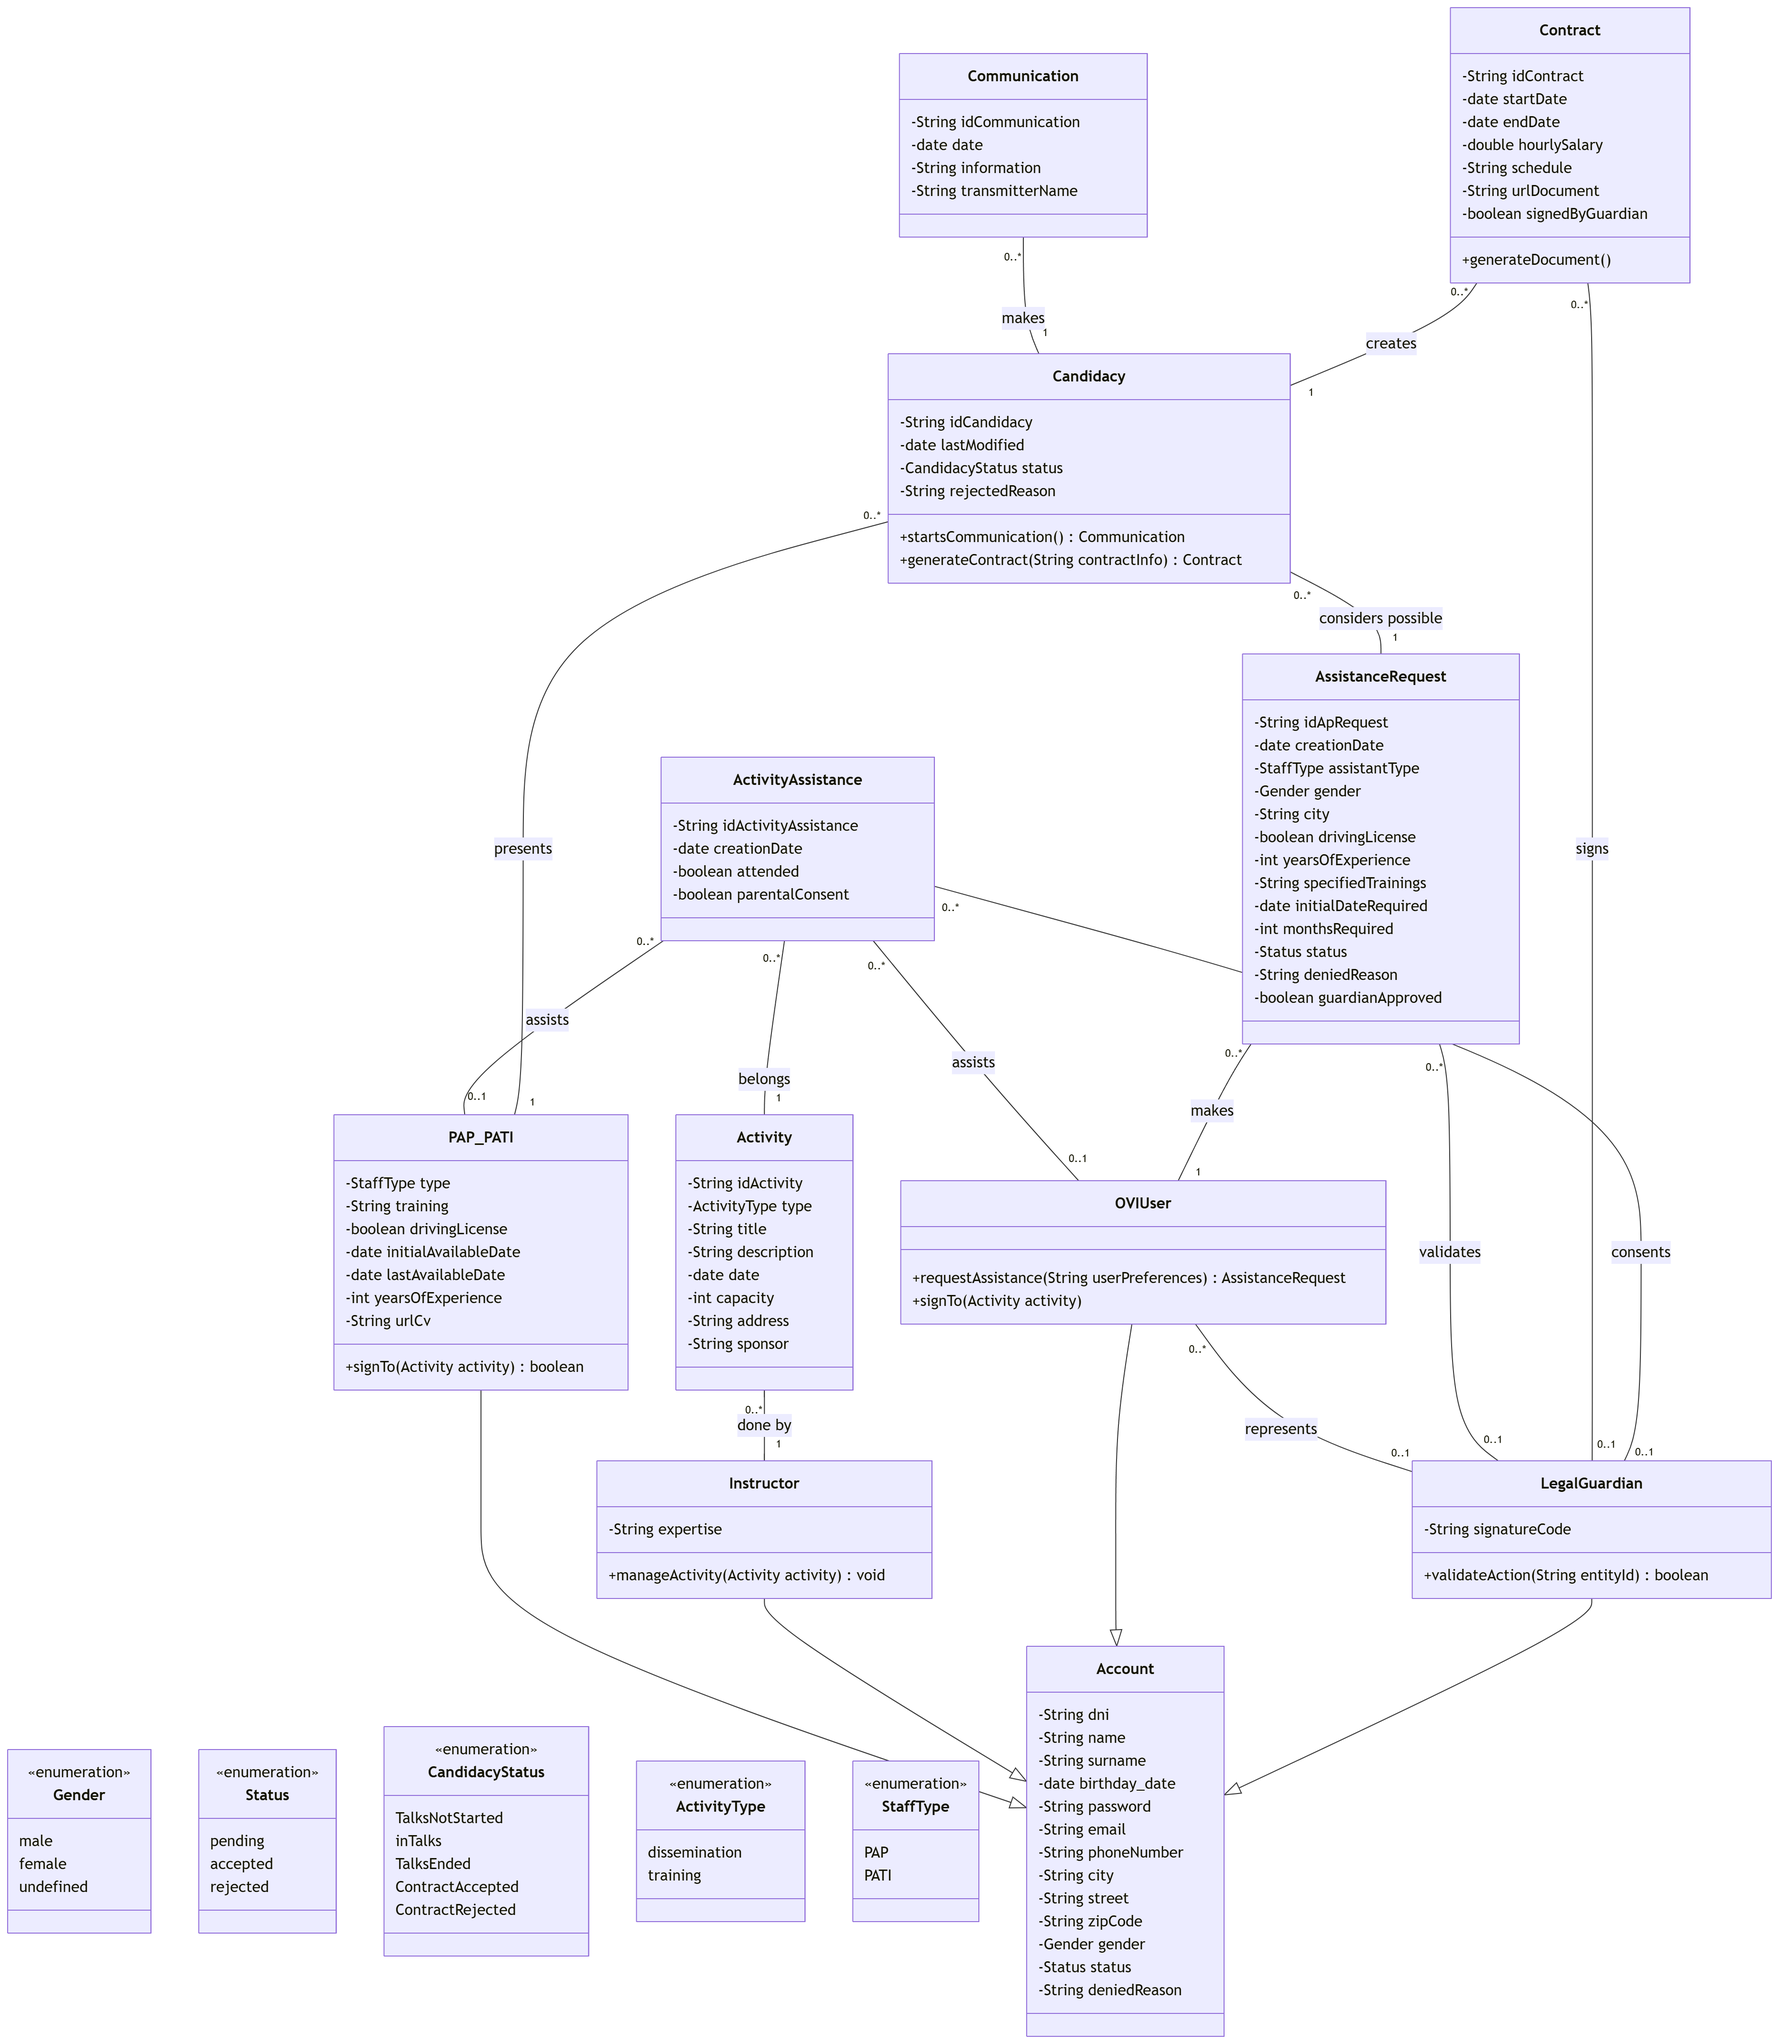
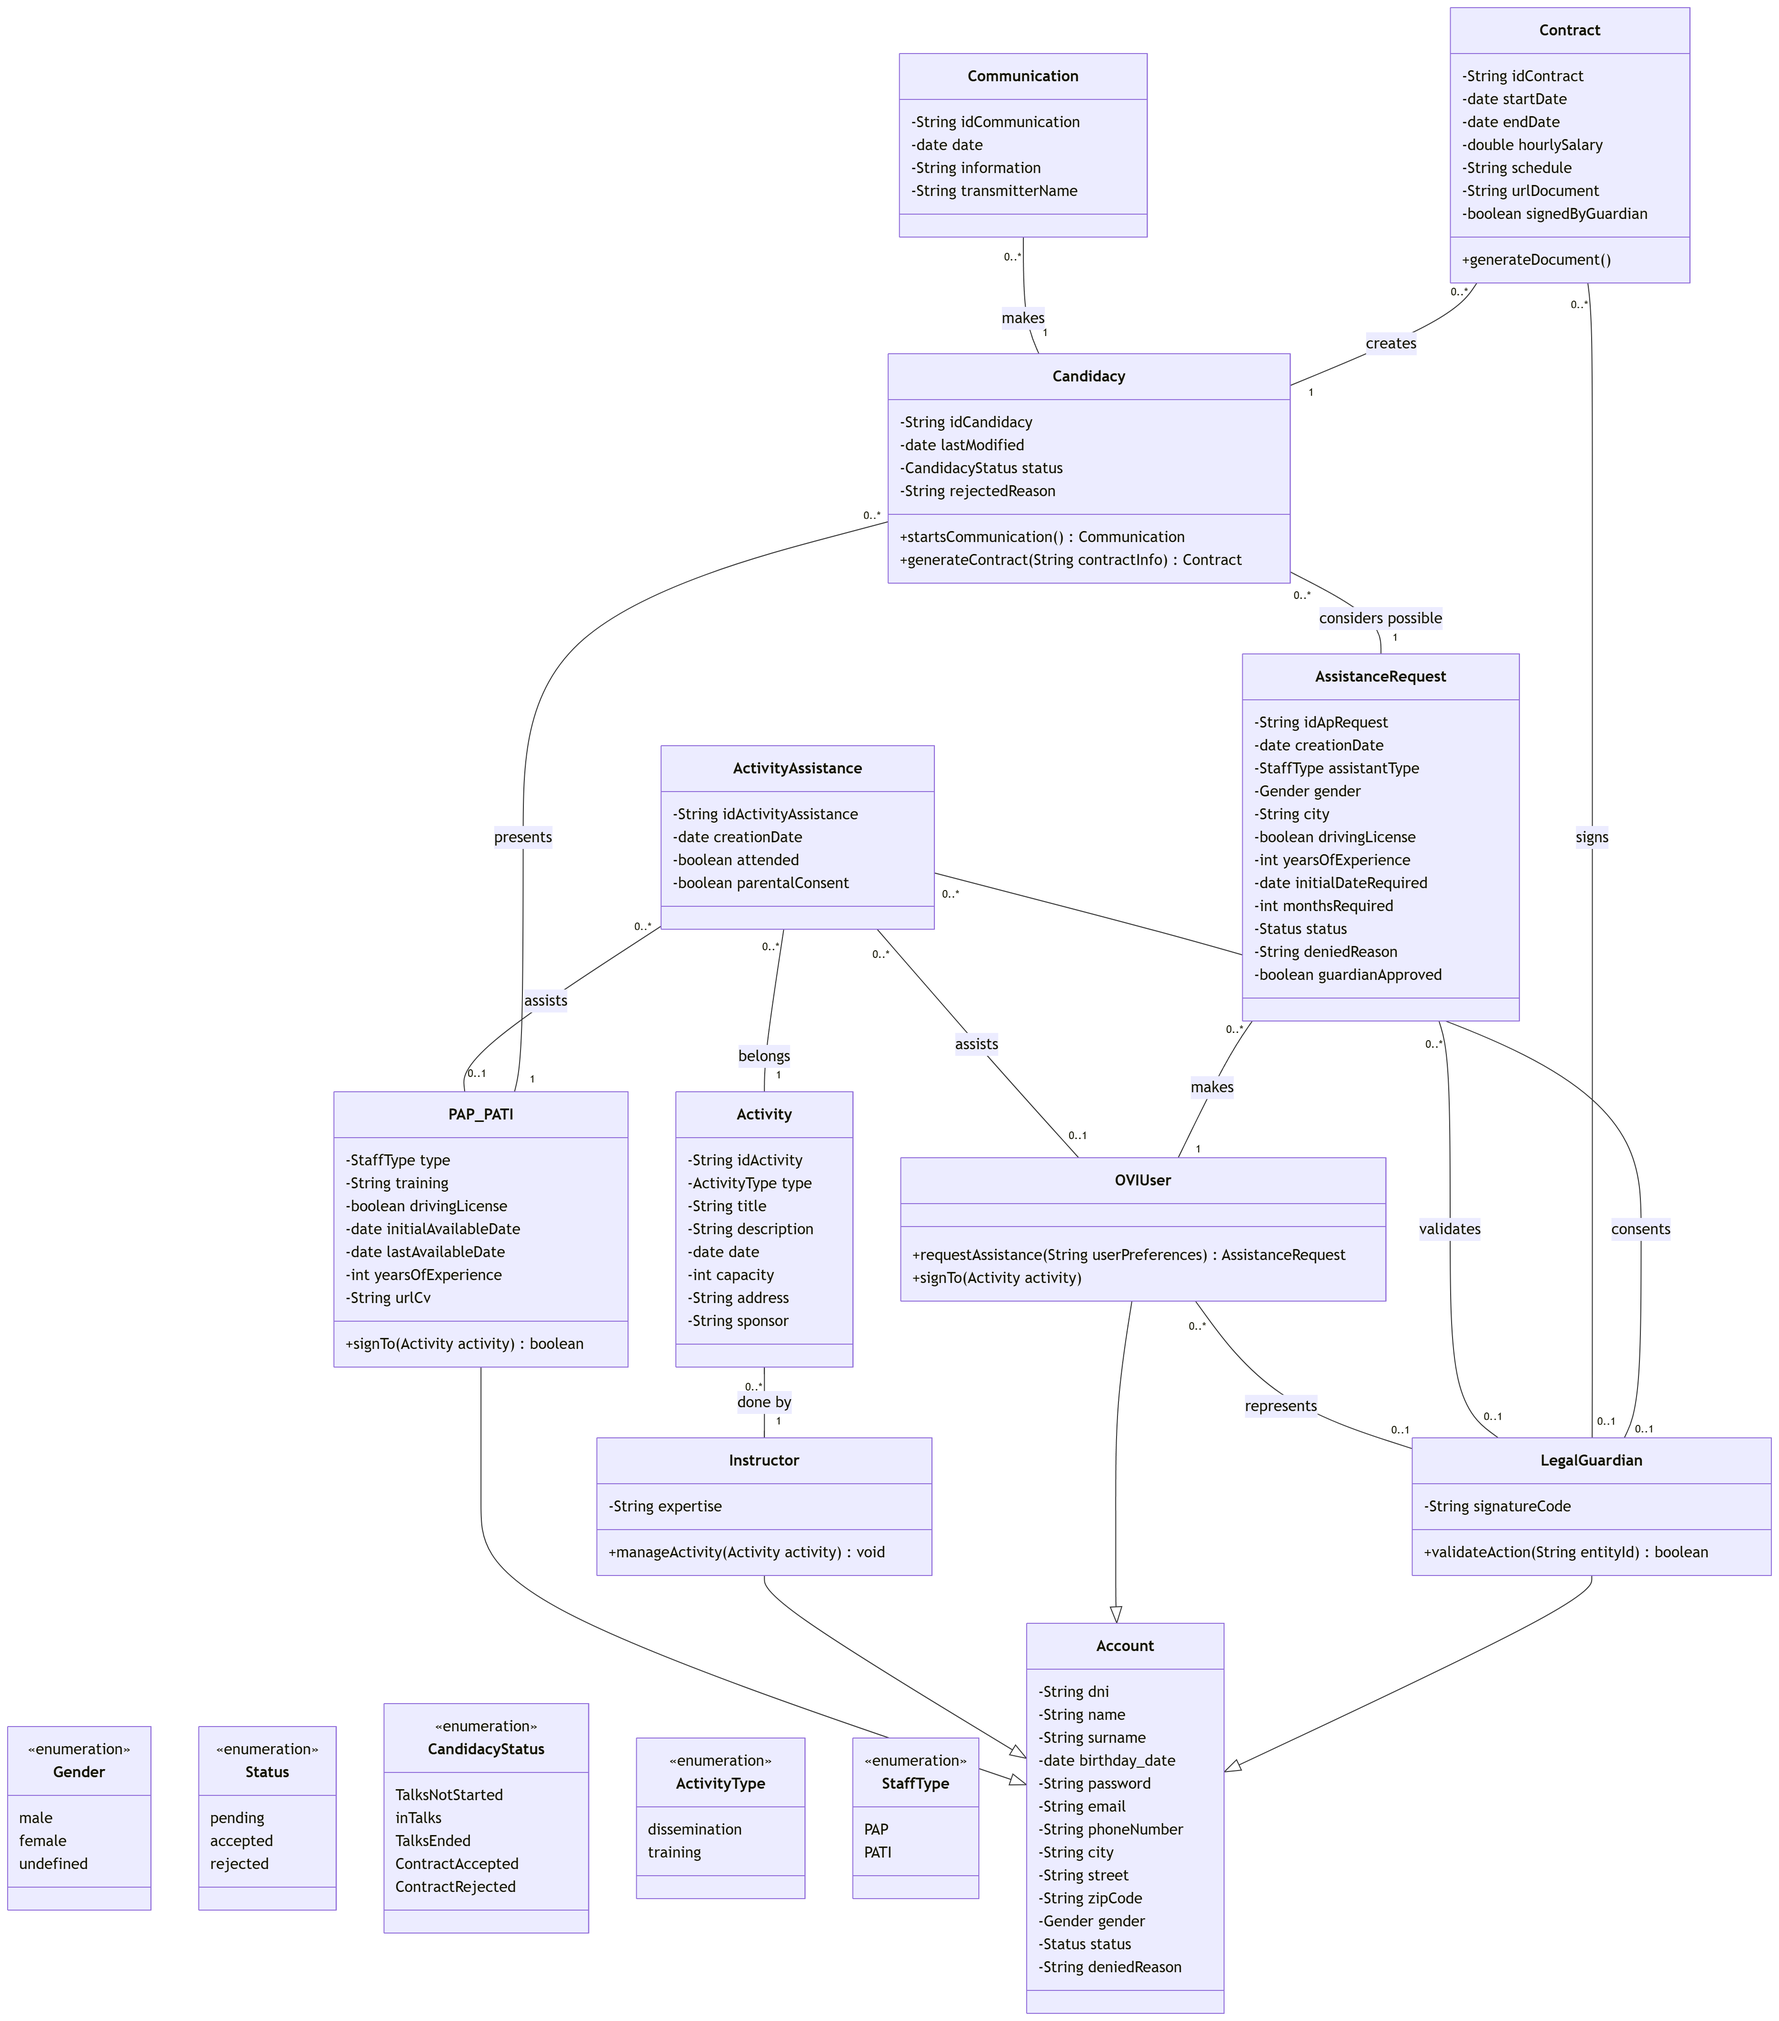
Quitado parámetro assistanceRequest trainings

diff --git a/SgOviProject/src/main/java/es/uji/ei1027/SgOviProject/dao/AssistanceRequestDao.java b/SgOviProject/src/main/java/es/uji/ei1027/SgOviProject/dao/AssistanceRequestDao.java
@@ -30,7 +30,7 @@ public class AssistanceRequestDao {
 
         jdbcTemplate.update(connection -> {
             PreparedStatement ps = connection.prepareStatement(
-                    "INSERT INTO AssistanceRequest(creationDate, assistantType, gender, city, drivingLicense, yearsOfExperience, specifiedTrainings, initialDateRequired, monthsRequired, status, deniedReason, dniOviUser, approvedByGuardian, dniLegalGuardian) VALUES(?, ?, ?, ?, ?, ?, ?, ?, ?, ?, ?, ?, ?, ?)",
+                    "INSERT INTO AssistanceRequest(creationDate, assistantType, gender, city, drivingLicense, yearsOfExperience, initialDateRequired, monthsRequired, status, deniedReason, dniOviUser, approvedByGuardian, dniLegalGuardian) VALUES(?, ?, ?, ?, ?, ?, ?, ?, ?, ?, ?, ?, ?)",
                     Statement.RETURN_GENERATED_KEYS);
 
             ps.setObject(1, request.getCreationDate());
@@ -39,14 +39,13 @@ public class AssistanceRequestDao {
             ps.setString(4, request.getCity());
             ps.setObject(5, request.getDrivingLicense(), java.sql.Types.BOOLEAN);
             ps.setObject(6, request.getYearsOfExperience(), java.sql.Types.INTEGER);
-            ps.setString(7, request.getSpecifiedTrainings());
-            ps.setObject(8, request.getInitialDateRequired());
-            ps.setInt(9, request.getMonthsRequired());
-            ps.setString(10, request.getStatus() != null ? request.getStatus().name().toLowerCase() : "pending");
-            ps.setString(11, request.getDeniedReason());
-            ps.setString(12, request.getDniOviUser());
-            ps.setBoolean(13, request.isApprovedByGuardian());
-            ps.setString(14, request.getDniLegalGuardian());
+            ps.setObject(7, request.getInitialDateRequired());
+            ps.setInt(8, request.getMonthsRequired());
+            ps.setString(9, request.getStatus() != null ? request.getStatus().name().toLowerCase() : "pending");
+            ps.setString(10, request.getDeniedReason());
+            ps.setString(11, request.getDniOviUser());
+            ps.setBoolean(12, request.isApprovedByGuardian());
+            ps.setString(13, request.getDniLegalGuardian());
 
             return ps;
         }, keyHolder);
@@ -72,14 +71,13 @@ public class AssistanceRequestDao {
     }
 
     public void updateAssistanceRequest(AssistanceRequest request) {
-        jdbcTemplate.update("UPDATE AssistanceRequest SET creationDate=?, assistantType=?, gender=?, city=?, drivingLicense=?, yearsOfExperience=?, specifiedTrainings=?, initialDateRequired=?, monthsRequired=?, status=?, deniedReason=?, dniOviUser=?, approvedByGuardian=?, dniLegalGuardian=? WHERE idApRequest=?",
+        jdbcTemplate.update("UPDATE AssistanceRequest SET creationDate=?, assistantType=?, gender=?, city=?, drivingLicense=?, yearsOfExperience=?, initialDateRequired=?, monthsRequired=?, status=?, deniedReason=?, dniOviUser=?, approvedByGuardian=?, dniLegalGuardian=? WHERE idApRequest=?",
                 request.getCreationDate(),
                 request.getAssistantType().name(),
                 request.getGender(),
                 request.getCity(),
                 request.getDrivingLicense(),
                 request.getYearsOfExperience(),
-                request.getSpecifiedTrainings(),
                 request.getInitialDateRequired(),
                 request.getMonthsRequired(),
                 request.getStatus().name().toLowerCase(),

diff --git a/SgOviProject/src/main/java/es/uji/ei1027/SgOviProject/model/AssistanceRequest.java b/SgOviProject/src/main/java/es/uji/ei1027/SgOviProject/model/AssistanceRequest.java
@@ -14,12 +14,11 @@ public class AssistanceRequest {
     private String city;
     private Boolean drivingLicense;
     private Integer yearsOfExperience;
-    private String specifiedTrainings;
     private LocalDate initialDateRequired;
     private int monthsRequired;
     // Fin parámetros búsqueda
 
-    private Status status;
+    private Status status = Status.PENDING;
     private String deniedReason;
     private String dniOviUser;
     private boolean approvedByGuardian;
@@ -79,14 +78,6 @@ public class AssistanceRequest {
 
     public void setYearsOfExperience(Integer yearsOfExperience) {
         this.yearsOfExperience = yearsOfExperience;
-    }
-
-    public String getSpecifiedTrainings() {
-        return specifiedTrainings;
-    }
-
-    public void setSpecifiedTrainings(String specifiedTrainings) {
-        this.specifiedTrainings = specifiedTrainings;
     }
 
     public LocalDate getInitialDateRequired() {
@@ -155,7 +146,6 @@ public class AssistanceRequest {
                 ", city='" + city + '\'' +
                 ", drivingLicense=" + drivingLicense +
                 ", yearsOfExperience=" + yearsOfExperience +
-                ", specifiedTrainings='" + specifiedTrainings + '\'' +
                 ", initialDateRequired=" + initialDateRequired +
                 ", monthsRequired=" + monthsRequired +
                 ", status=" + status +

diff --git a/SgOviProject/src/main/java/es/uji/ei1027/SgOviProject/dao/AssistanceRequestRowMapper.java b/SgOviProject/src/main/java/es/uji/ei1027/SgOviProject/dao/AssistanceRequestRowMapper.java
@@ -25,7 +25,6 @@ public final class AssistanceRequestRowMapper implements RowMapper<AssistanceReq
         request.setCity(rs.getString("city"));
         request.setDrivingLicense(rs.getObject("drivingLicense", Boolean.class));
         request.setYearsOfExperience(rs.getObject("yearsOfExperience", Integer.class));
-        request.setSpecifiedTrainings(rs.getString("specifiedTrainings"));
         request.setInitialDateRequired(rs.getObject("initialDateRequired", LocalDate.class));
         request.setMonthsRequired(rs.getInt("monthsRequired"));
 
